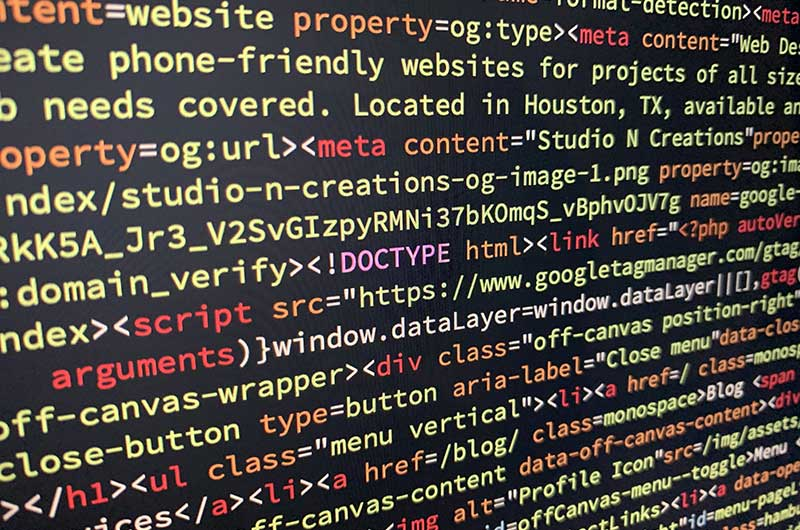
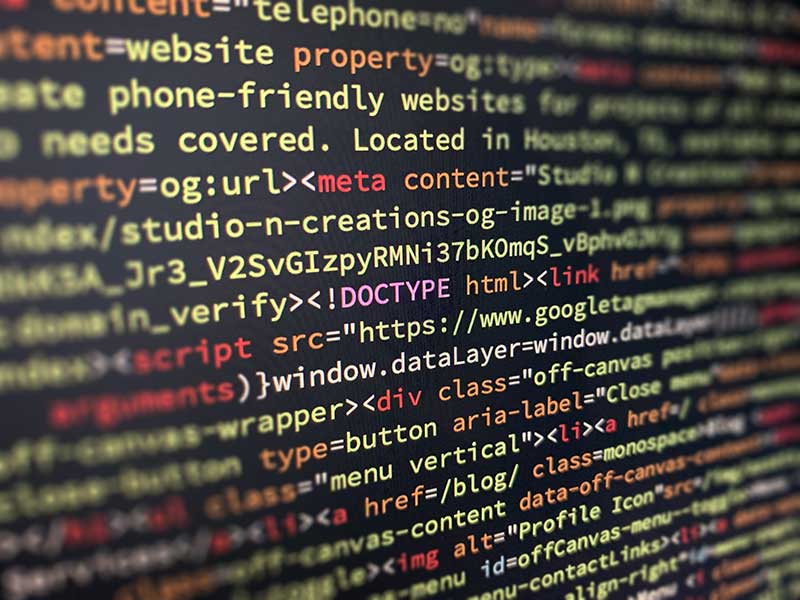
Reference renamed final img

diff --git a/src/pages/dev.php b/src/pages/dev.php
@@ -47,12 +47,12 @@ body-class: index bodyLayout-unique
 	</div>
 	<div class="grid-x align-middle step-wrap step-3">
 		<div class="cell show-for-medium medium-6 text-right">
-			<img src="/img/our-services/web-development/iris-blur-1.jpg" alt="">
+			<img src="/img/our-services/web-development/code-close-up.jpg" alt="">
 		</div>
 		<div class="cell medium-6">
 			<div class="prose-wrap">
 				<h2 class="h3 ff-monospace mb-16"><span class="h5 display-block">Step 3</span> Development Stage</h2>
-				<img src="/img/our-services/web-development/iris-blur-1.jpg" alt="" class="hide-for-medium">
+				<img src="/img/our-services/web-development/code-close-up.jpg" alt="" class="hide-for-medium">
 				<p class="lead">With the content established and a solid user experience defined, the project gets developed into a functioning website. I utilize the industry’s latest technologies to ensure optimal performance on all device platforms and screen sizes.</p>
 			</div>
 		</div>
